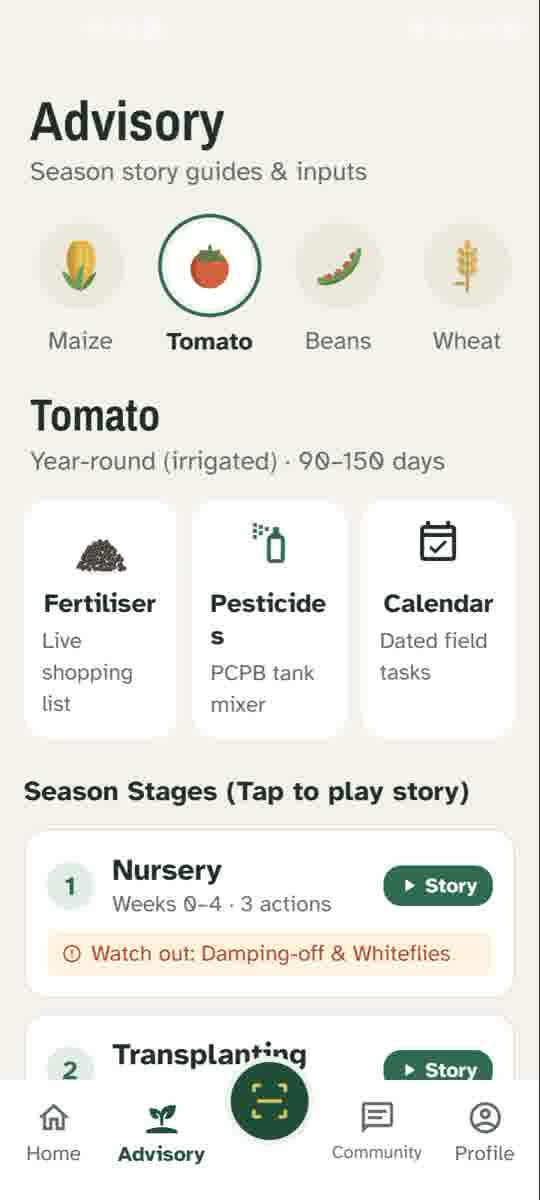
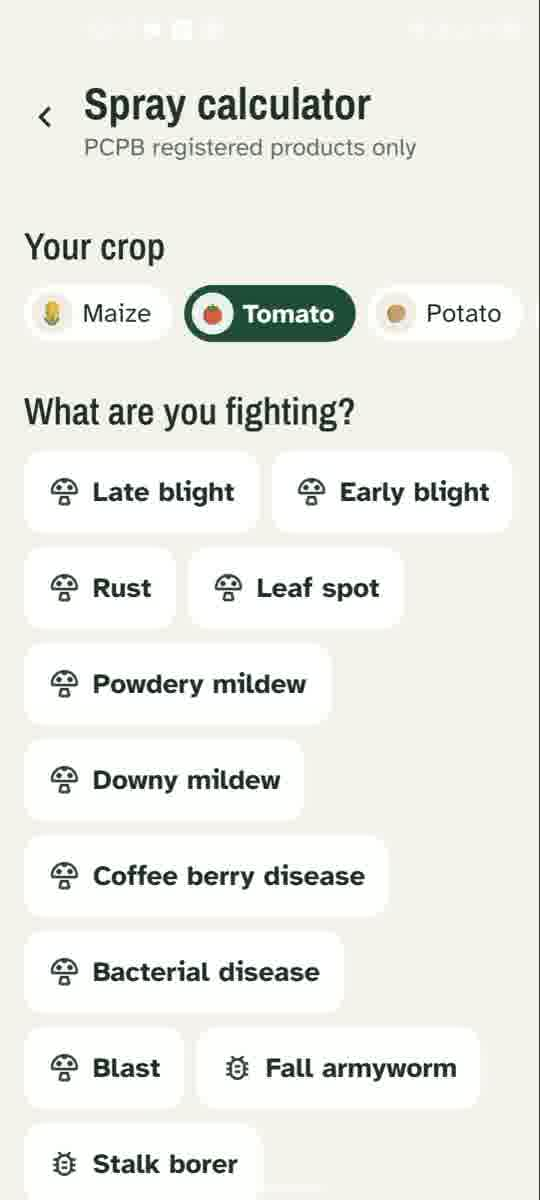
Spray calculator: show the products after a pick; size the right field
Checked on the TECNO (tomato, late blight). Picking a problem gave no visible response: the products sit below 13 problem tiles. The screen now scrolls to them (no animation with reduce motion). The '155 on the PCPB list' count ran off a 360 dp screen; it now sits under the heading. With a crop passed in, the field pre-filled was the first field of any crop, so a tomato spray was sized for a 10.75-acre coffee field (109 tanks); only a field growing that crop is pre-filled now, else 1 acre. The before shot replaces the earlier one, which had caught Advisory.

diff --git a/app/pesticide-calc.tsx b/app/pesticide-calc.tsx
@@ -4,9 +4,10 @@
 // Crop and field come from the farmer's saved fields; the problem from the scan.
 // A dose appears only when it is quoted from the product label (lib/pcpbCore.ts).
 
-import React, { useCallback, useMemo, useState } from 'react';
+import React, { useCallback, useMemo, useRef, useState } from 'react';
 import { ScrollView, Share, StyleSheet, View } from 'react-native';
 import { useFocusEffect, useLocalSearchParams } from 'expo-router';
+import { useReducedMotion } from 'react-native-reanimated';
 import { Btn, Chip, Header, Icon, Press, Segmented, Stepper, Text, tick } from '../components/ui';
 import { PcpbProductCard } from '../components/PcpbProductCard';
 import { listFarms, type Farm } from '../lib/data';
@@ -51,14 +52,24 @@ export default function PesticideCalcScreen() {
   const [fieldId, setFieldId] = useState<string | null>(null);
   const [tanksOverride, setTanksOverride] = useState<number | null>(null);
   const [weather, setWeather] = useState<Weather | null>(null);
+  // The products sit below a dozen problem tiles: bring them into view after a pick.
+  const scroller = useRef<ScrollView>(null);
+  const productsY = useRef<number | null>(null);
+  const pendingScroll = useRef(false);
+  const reduceMotion = useReducedMotion();
+  const showProducts = () => {
+    pendingScroll.current = false;
+    if (productsY.current !== null) scroller.current?.scrollTo({ y: Math.max(0, productsY.current - 8), animated: !reduceMotion });
+  };
 
   useFocusEffect(
     useCallback(() => {
       listFarms()
         .then((list) => {
           setFarms(list);
-          // Pre-fill from the farmer's first field unless a crop was passed in.
-          const first = list.find((f) => f.size_acres);
+          // Pre-fill from the farmer's first field; when a crop was passed in, only a field growing it
+          // (a tomato spray was being sized for a 10.75-acre coffee field).
+          const first = list.find((f) => f.size_acres && (!prm.crop || cropKey(f.crop) === cropKey(prm.crop)));
           if (first && !fieldId) {
             setFieldId(first.id);
             setAcres(Number(first.size_acres));
@@ -93,6 +104,7 @@ export default function PesticideCalcScreen() {
     tick('select');
     setCropText(c);
     setProblem(null);
+    productsY.current = null; // the products block unmounts until a problem is picked again
     setRegNo(null);
     setShowAll(false);
     setTanksOverride(null);
@@ -121,7 +133,7 @@ export default function PesticideCalcScreen() {
   return (
     <View style={{ flex: 1, backgroundColor: C.bg }}>
       <Header title="Spray calculator" subtitle={t('PCPB registered products only')} />
-      <ScrollView contentContainerStyle={{ paddingBottom: 56 }}>
+      <ScrollView ref={scroller} contentContainerStyle={{ paddingBottom: 56 }}>
         {/* 1. Crop */}
         <Text style={st.step}>Your crop</Text>
         <ScrollView horizontal showsHorizontalScrollIndicator={false} contentContainerStyle={st.chips}>
@@ -145,6 +157,9 @@ export default function PesticideCalcScreen() {
                     setRegNo(null);
                     setShowAll(false);
                     setTanksOverride(null);
+                    // first pick: scroll once the products block lays out; later picks: it is already there
+                    if (productsY.current === null) pendingScroll.current = true;
+                    else showProducts();
                   }}
                   accessibilityRole="button"
                   accessibilityState={{ selected: on }}
@@ -163,7 +178,13 @@ export default function PesticideCalcScreen() {
         {/* 3. Registered options */}
         {activeProblem ? (
           <>
-            <View style={st.stepRow}>
+            <View
+              style={st.stepRow}
+              onLayout={(e) => {
+                productsY.current = e.nativeEvent.layout.y;
+                if (pendingScroll.current) showProducts();
+              }}
+            >
               <Text style={st.step}>Registered products</Text>
               <Text raw style={st.count}>
                 {t('{n} on the PCPB list', { n: products.length })}
@@ -374,8 +395,8 @@ function cropLabel(key: string): string {
 
 const st = StyleSheet.create({
   step: { fontSize: 22, color: C.text, marginHorizontal: 16, marginTop: 28, marginBottom: 10 },
-  stepRow: { flexDirection: 'row', alignItems: 'baseline', justifyContent: 'space-between', paddingRight: 16 },
-  count: { fontSize: 13, color: C.textSub },
+  stepRow: { paddingRight: 16 }, // the count sits under the heading: beside it, it ran off a 360 dp screen
+  count: { fontSize: 13, color: C.textSub, marginLeft: 16, marginTop: -6 },
   chips: { gap: 8, paddingHorizontal: 16 },
   problemGrid: { flexDirection: 'row', flexWrap: 'wrap', gap: 8, paddingHorizontal: 16 },
   problem: {
